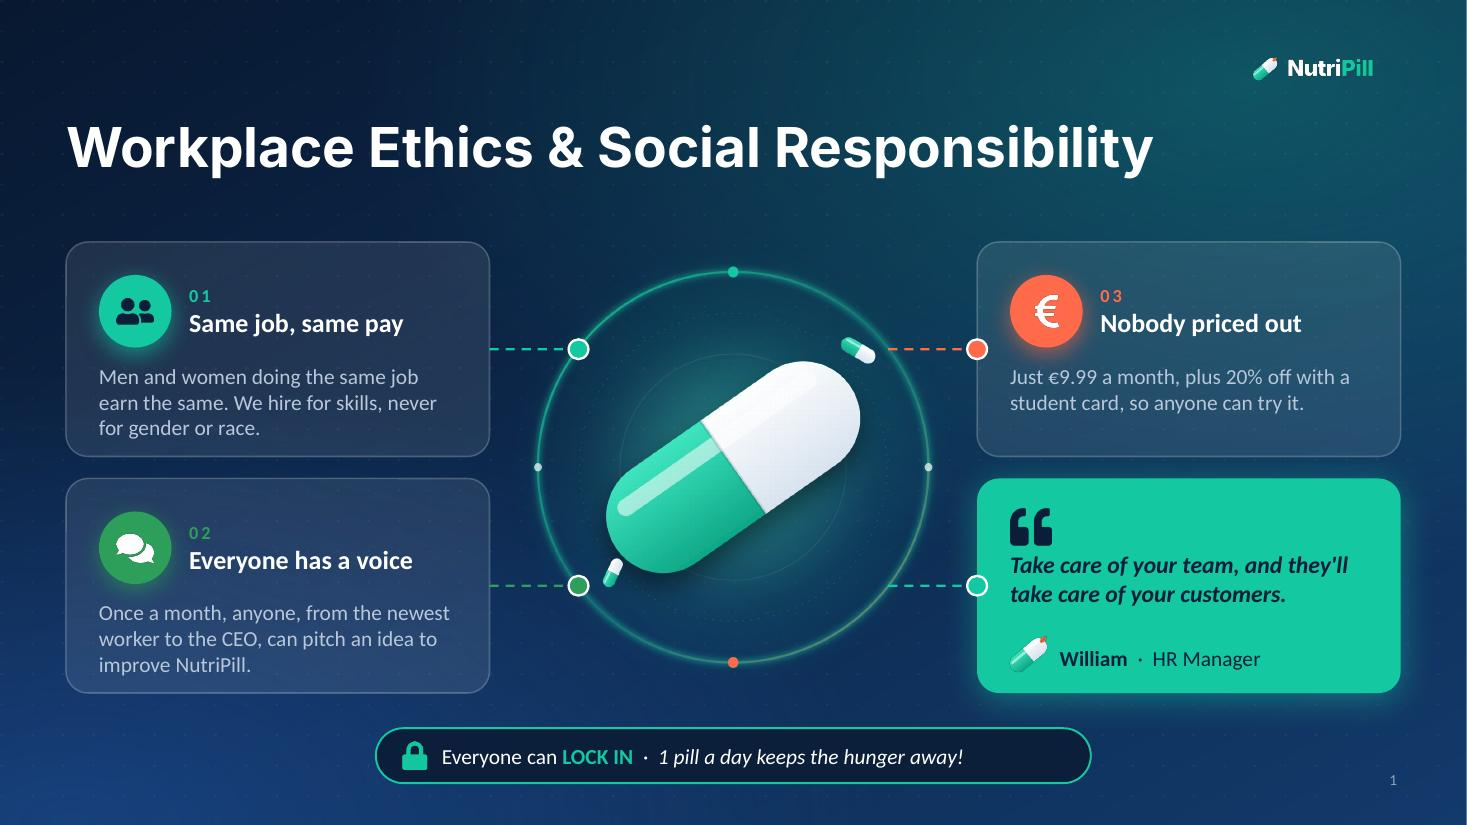
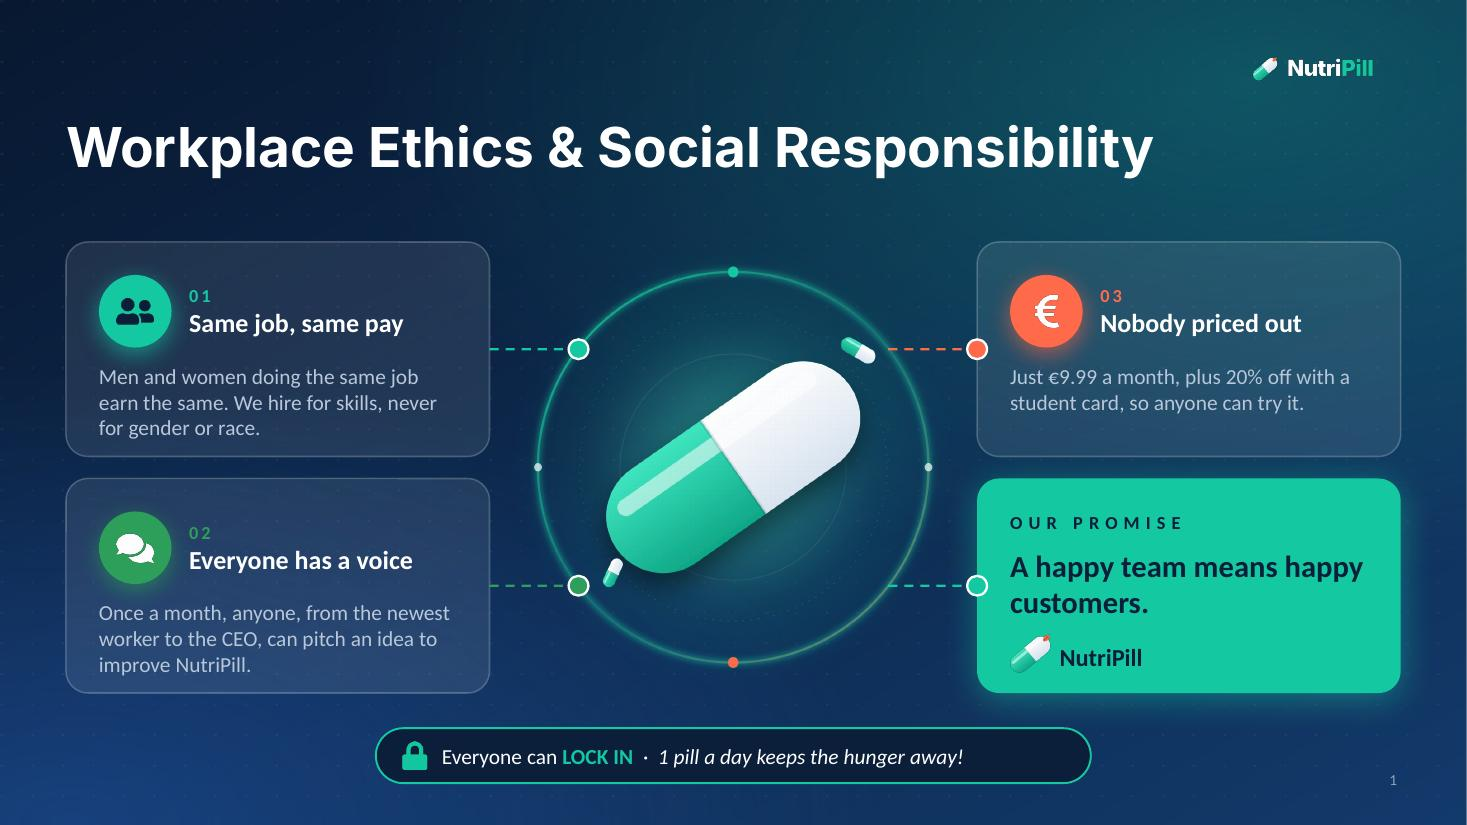
Replace quote with a company promise on Workplace Ethics slide
Claude-Session: https://claude.ai/code/session_01TFmXfwWy7YkFL9ETqt4WJz

Changed region(s): [[0.6748, 0.6061, 0.9509, 0.8182]]

diff --git a/source/ethics.js b/source/ethics.js
@@ -89,10 +89,10 @@ items.forEach(([x, y, icn, num, h, d, col, icol], i) => {
 // quote card (bottom right), brand mint
 const qx = RX, qy = Y2;
 s.addShape(pres.shapes.ROUNDED_RECTANGLE, { x: qx, y: qy, w: CW, h: CH, rectRadius: 0.2, fill: { color: HEX.mint }, line: { type: "none" }, shadow: { type: "outer", color: HEX.mint, blur: 24, offset: 0, angle: 90, opacity: 0.45 }, objectName: "a5_card" });
-s.addImage({ path: ic("quote", "navy"), x: qx + 0.3, y: qy + 0.25, w: 0.38, h: 0.38, objectName: "a5_q", altText: "" });
-T(s, "Take care of your team, and they'll take care of your customers.", { x: qx + 0.3, y: qy + 0.65, w: CW - 0.45, h: 0.7, fontSize: 15.5, bold: true, italic: true, color: HEX.navy, objectName: "a5_t" });
-s.addImage({ path: A("logo-mark.png"), x: qx + 0.24, y: qy + 1.4, w: 0.45, h: 0.45, objectName: "a5_mark", altText: "NutriPill logo" });
-T(s, [{ text: "William", options: { bold: true } }, { text: "  ·  HR Manager", options: {} }], { x: qx + 0.75, y: qy + 1.43, w: 2.6, h: 0.4, fontSize: 14, color: HEX.navy, valign: "middle", objectName: "a5_sig" });
+T(s, "OUR PROMISE", { x: qx + 0.3, y: qy + 0.3, w: CW - 0.6, h: 0.3, fontSize: 12, bold: true, charSpacing: 4, color: HEX.navy, objectName: "a5_k" });
+T(s, "A happy team means happy customers.", { x: qx + 0.3, y: qy + 0.62, w: CW - 0.5, h: 0.75, fontSize: 20, bold: true, color: HEX.navy, objectName: "a5_t" });
+s.addImage({ path: A("logo-mark.png"), x: qx + 0.24, y: qy + 1.38, w: 0.48, h: 0.48, objectName: "a5_mark", altText: "NutriPill logo" });
+T(s, "NutriPill", { x: qx + 0.75, y: qy + 1.42, w: 2, h: 0.4, fontSize: 16, bold: true, color: HEX.navy, valign: "middle", objectName: "a5_brand" });
 { const my = qy + CH / 2, dy = Math.abs(my - CY), ox = Math.sqrt(R * 0.864 * R * 0.864 - dy * dy); connector(CX + ox, qx, my, HEX.mint, "a5"); }
 
 // slogan ribbon under the capsule
@@ -102,7 +102,7 @@ s.addImage({ path: ic("lock", "mint"), x: SX + 0.22, y: SY + 0.12, w: 0.26, h: 0
 T(s, [{ text: "Everyone can ", options: { color: "FFFFFF" } }, { text: "LOCK IN", options: { color: HEX.mint, bold: true } }, { text: "  ·  1 pill a day keeps the hunger away!", options: { color: "FFFFFF", italic: true } }],
   { x: SX + 0.6, y: SY, w: SW - 0.75, h: 0.5, fontSize: 14, valign: "middle", objectName: "a6_t" });
 
-s.addNotes("As HR Manager, I believe one simple thing: take care of your team, and they'll take care of your customers. So we have three clear rules. First, same job, same pay. Men and women who do the same job earn exactly the same, and we hire people for their skills, never because of their gender or race. Second, everyone has a voice. Once a month, anyone in the company, from the newest worker to the CEO, can pitch an idea to improve NutriPill. That's how we keep innovation alive. And third, nobody is priced out. Our social responsibility includes our customers too, so NutriPill costs just 9.99 a month, and students get 20% off with their student card. That way, anyone can try it and, as our slogan says, lock in.");
+s.addNotes("As HR Manager, our promise is simple: a happy team means happy customers. So we have three clear rules. First, same job, same pay. Men and women who do the same job earn exactly the same, and we hire people for their skills, never because of their gender or race. Second, everyone has a voice. Once a month, anyone in the company, from the newest worker to the CEO, can pitch an idea to improve NutriPill. That's how we keep innovation alive. And third, nobody is priced out. Our social responsibility includes our customers too, so NutriPill costs just 9.99 a month, and students get 20% off with their student card. That way, anyone can try it and, as our slogan says, lock in.");
 
 (async () => {
   const out = path.join(__dirname, "Ethics-slide.pptx");
